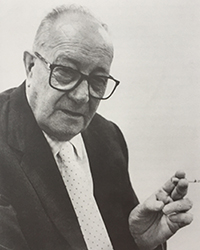
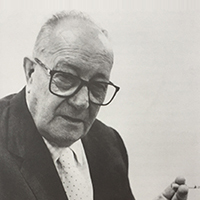
ok

diff --git a/site/modern3/css/styles.css b/site/modern3/css/styles.css
@@ -1169,6 +1169,7 @@ box-shadow: 0px 1px 1px 0px rgba(0, 0, 0, 0.2);
     margin-bottom: 5px;
   }
   
+  
 }
 
 
@@ -1499,7 +1500,11 @@ a.scrolldown:hover, a.scrolldown:focus, #back-top a:hover, #back-top a:focus {
 .content1 {
   font-size: 20px;
 }
+.animation-element.slide-left.testimonial2 {
 
+  width: 44%;
+  height: 22vh;  
+  }
 
 }
 
@@ -1656,6 +1661,11 @@ a.scrolldown:hover, a.scrolldown:focus, #back-top a:hover, #back-top a:focus {
 /*.content1 p, .content1 a p {
   font-size: 20px;
 }*/
+.animation-element.slide-left.testimonial2 {
+
+  width: 44%;
+  height: 22vh;  
+  }
 }
 /**************** Extra small devices only ***************/
 @media (max-width: 767px) {
@@ -2004,7 +2014,16 @@ p .sidemenu {
   background-image: url("../images/main_life_5.jpg");
   width: 100%;
 }
+.animation-element.slide-left.testimonial2 {
 
+  width: 48%;
+ /* margin: 1.5vh 1% 1.5vh 1%;
+  background: #F5F5F5;
+  padding: 15px;
+  box-shadow: 0px 1px 1px 0px rgba(0, 0, 0, 0.2);
+  border: solid 1px #EAEAEA;*/
+  height: 35vh;  
+  }
 
 
 }   

diff --git a/site/modern3/life.html b/site/modern3/life.html
@@ -97,7 +97,7 @@
 
 <div class="bgimg-9">
     <div id="section4" class="scroll_down3">
-        <div class="container cf col-lg-5 col-md-5 col-sx-12 col-xxs-12">
+        <div class="container cf col-lg-5 col-md-5 col-sm-5 col-sx-12 col-xxs-12">
             <div class="animation-element slide-left testimonial2">
                 <img src="images/costantini.JPG" />
                 <div class="header-life">
